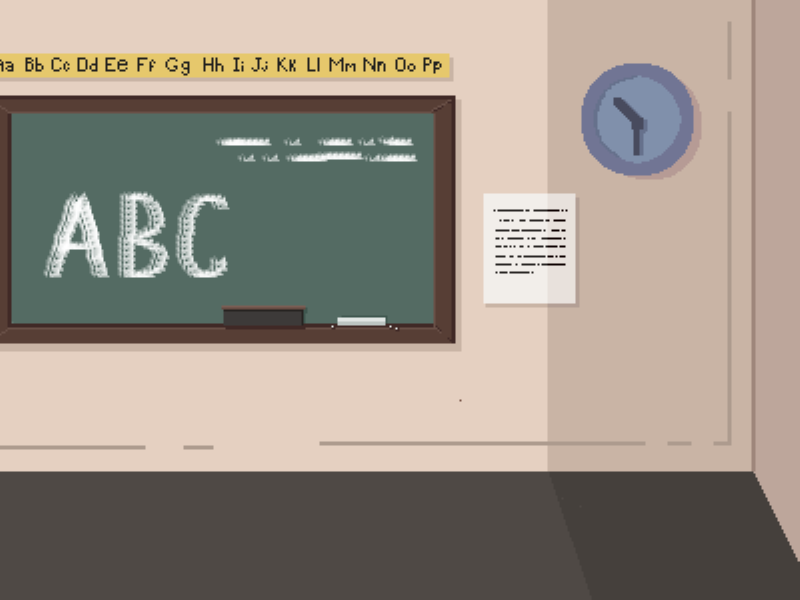
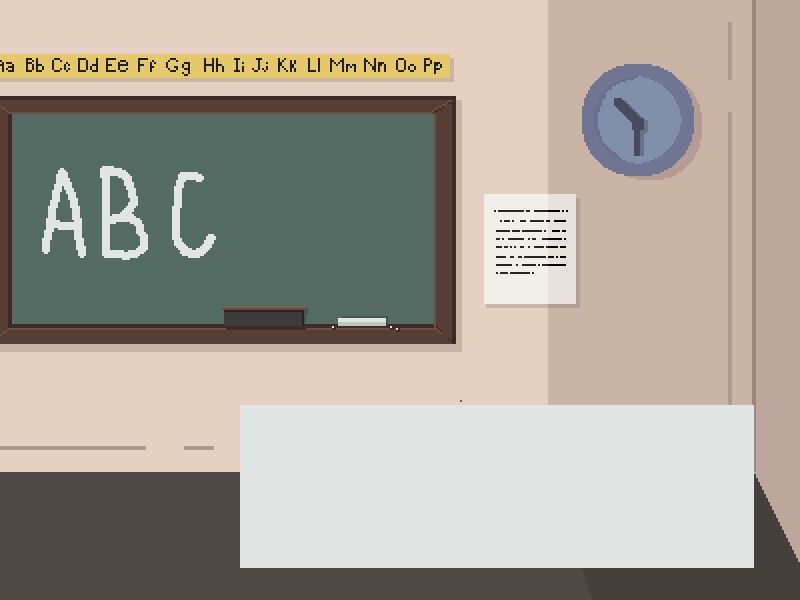
updated classroom

diff --git a/src/SceneLanguageClass.java b/src/SceneLanguageClass.java
@@ -13,7 +13,6 @@
  * <h2> Course Info:</h2>
  * ICS4U0
  * Mrs. Krasteva
- *
  */
 
 import javax.imageio.ImageIO;
@@ -24,47 +23,59 @@ import java.io.File;
 import java.io.IOException;
 import java.util.ArrayList;
 
-public class SceneLanguageClass extends JPanel{
-    ArrayList<String> dialogue = new ArrayList<String>();
+public class SceneLanguageClass extends JPanel {
     private BufferedImage bg;
     private BufferedImage teacher;
-    private BufferedImage speech;
+    static String[] sentences = {"Hello Everybody!", "Welcome to Language Class!", "Today we will be doing this!"};
+
 
     /**
      * Constructor, initializes graphics
      */
     SceneLanguageClass() {
         try {
-            bg = ImageIO.read(new File("src/img/Images/TeacherBG.png"));
-        } catch (IOException ex) { ex.printStackTrace(); }
+            bg = ImageIO.read(new File("src/img/TeacherBG.png"));
+        } catch (IOException ex) {
+            ex.printStackTrace();
+        }
         try {
-            teacher = ImageIO.read(new File("src/img/Images/pixil-layer-1.png"));
-        } catch (IOException ex) { ex.printStackTrace(); }
-        try {
-            speech = ImageIO.read(new File("src/img/dialogue1.png"));
-        } catch (IOException ex) { ex.printStackTrace(); }
+            teacher = ImageIO.read(new File("src/img/pixil-layer-3.png"));
+        } catch (IOException ex) {
+            ex.printStackTrace();
+        }
     }
 
     @Override
-    public Dimension getPreferredSize() { return new Dimension(800, 600); }
+    public Dimension getPreferredSize() {
+        return new Dimension(800, 600);
+    }
 
     @Override
     protected void paintComponent(Graphics g) {
+        Image back = bg.getScaledInstance(800, 600, Image.SCALE_DEFAULT);
         super.paintComponent(g);
         if (bg != null) {
-            int x = (getWidth() - bg.getWidth()) /2;
-            int y = (getHeight() - bg.getHeight()) /2;
+            int x = (getWidth() - bg.getWidth()) / 2;
+            int y = (getHeight() - bg.getHeight()) / 2;
             g.drawImage(bg, x, y, this);
         }
         if (teacher != null) {
             Image teach = teacher.getScaledInstance(400, 400, Image.SCALE_DEFAULT);
-            g.drawImage(teach, 400, 150, this);
-        }
-        if (speech != null) {
-            Image spe = speech.getScaledInstance(436, 178, Image.SCALE_DEFAULT);
-            g.drawImage(spe, 150, 200, this);
+            g.drawImage(teach, -50, 330, this);
         }
 
+        g.setColor(Color.black);
+        g.setFont(new Font("Tahoma", Font.PLAIN, 24));
+
+        int xcord=300;
+        int ycord=470;
+        //for( int x=0; x<sentences.length; x++) {
+
+            g.setColor(Color.black);
+            g.drawString(sentences[0], xcord, ycord);
+            g.drawString(sentences[0 + 1], xcord, ycord+40);
+        //}
     }
 
 }
+

diff --git a/src/Game.java b/src/Game.java
@@ -70,13 +70,14 @@ public class Game {
 
             } else if (gameState == 2) { //play
                 frame.remove(screen);
-                SceneLanguageClassGame langGame = new SceneLanguageClassGame();
-                frame.add(langGame);
+
+                SceneLanguageClassGame classroom = new SceneLanguageClassGame();
+                frame.add(classroom);
                 frame.pack();
                 frame.setLocationRelativeTo(null);
                 frame.setVisible(true);
 
-                screen = langGame;
+                screen = classroom;
                 gameState = 0;
 
             } else if(gameState == 3) {
